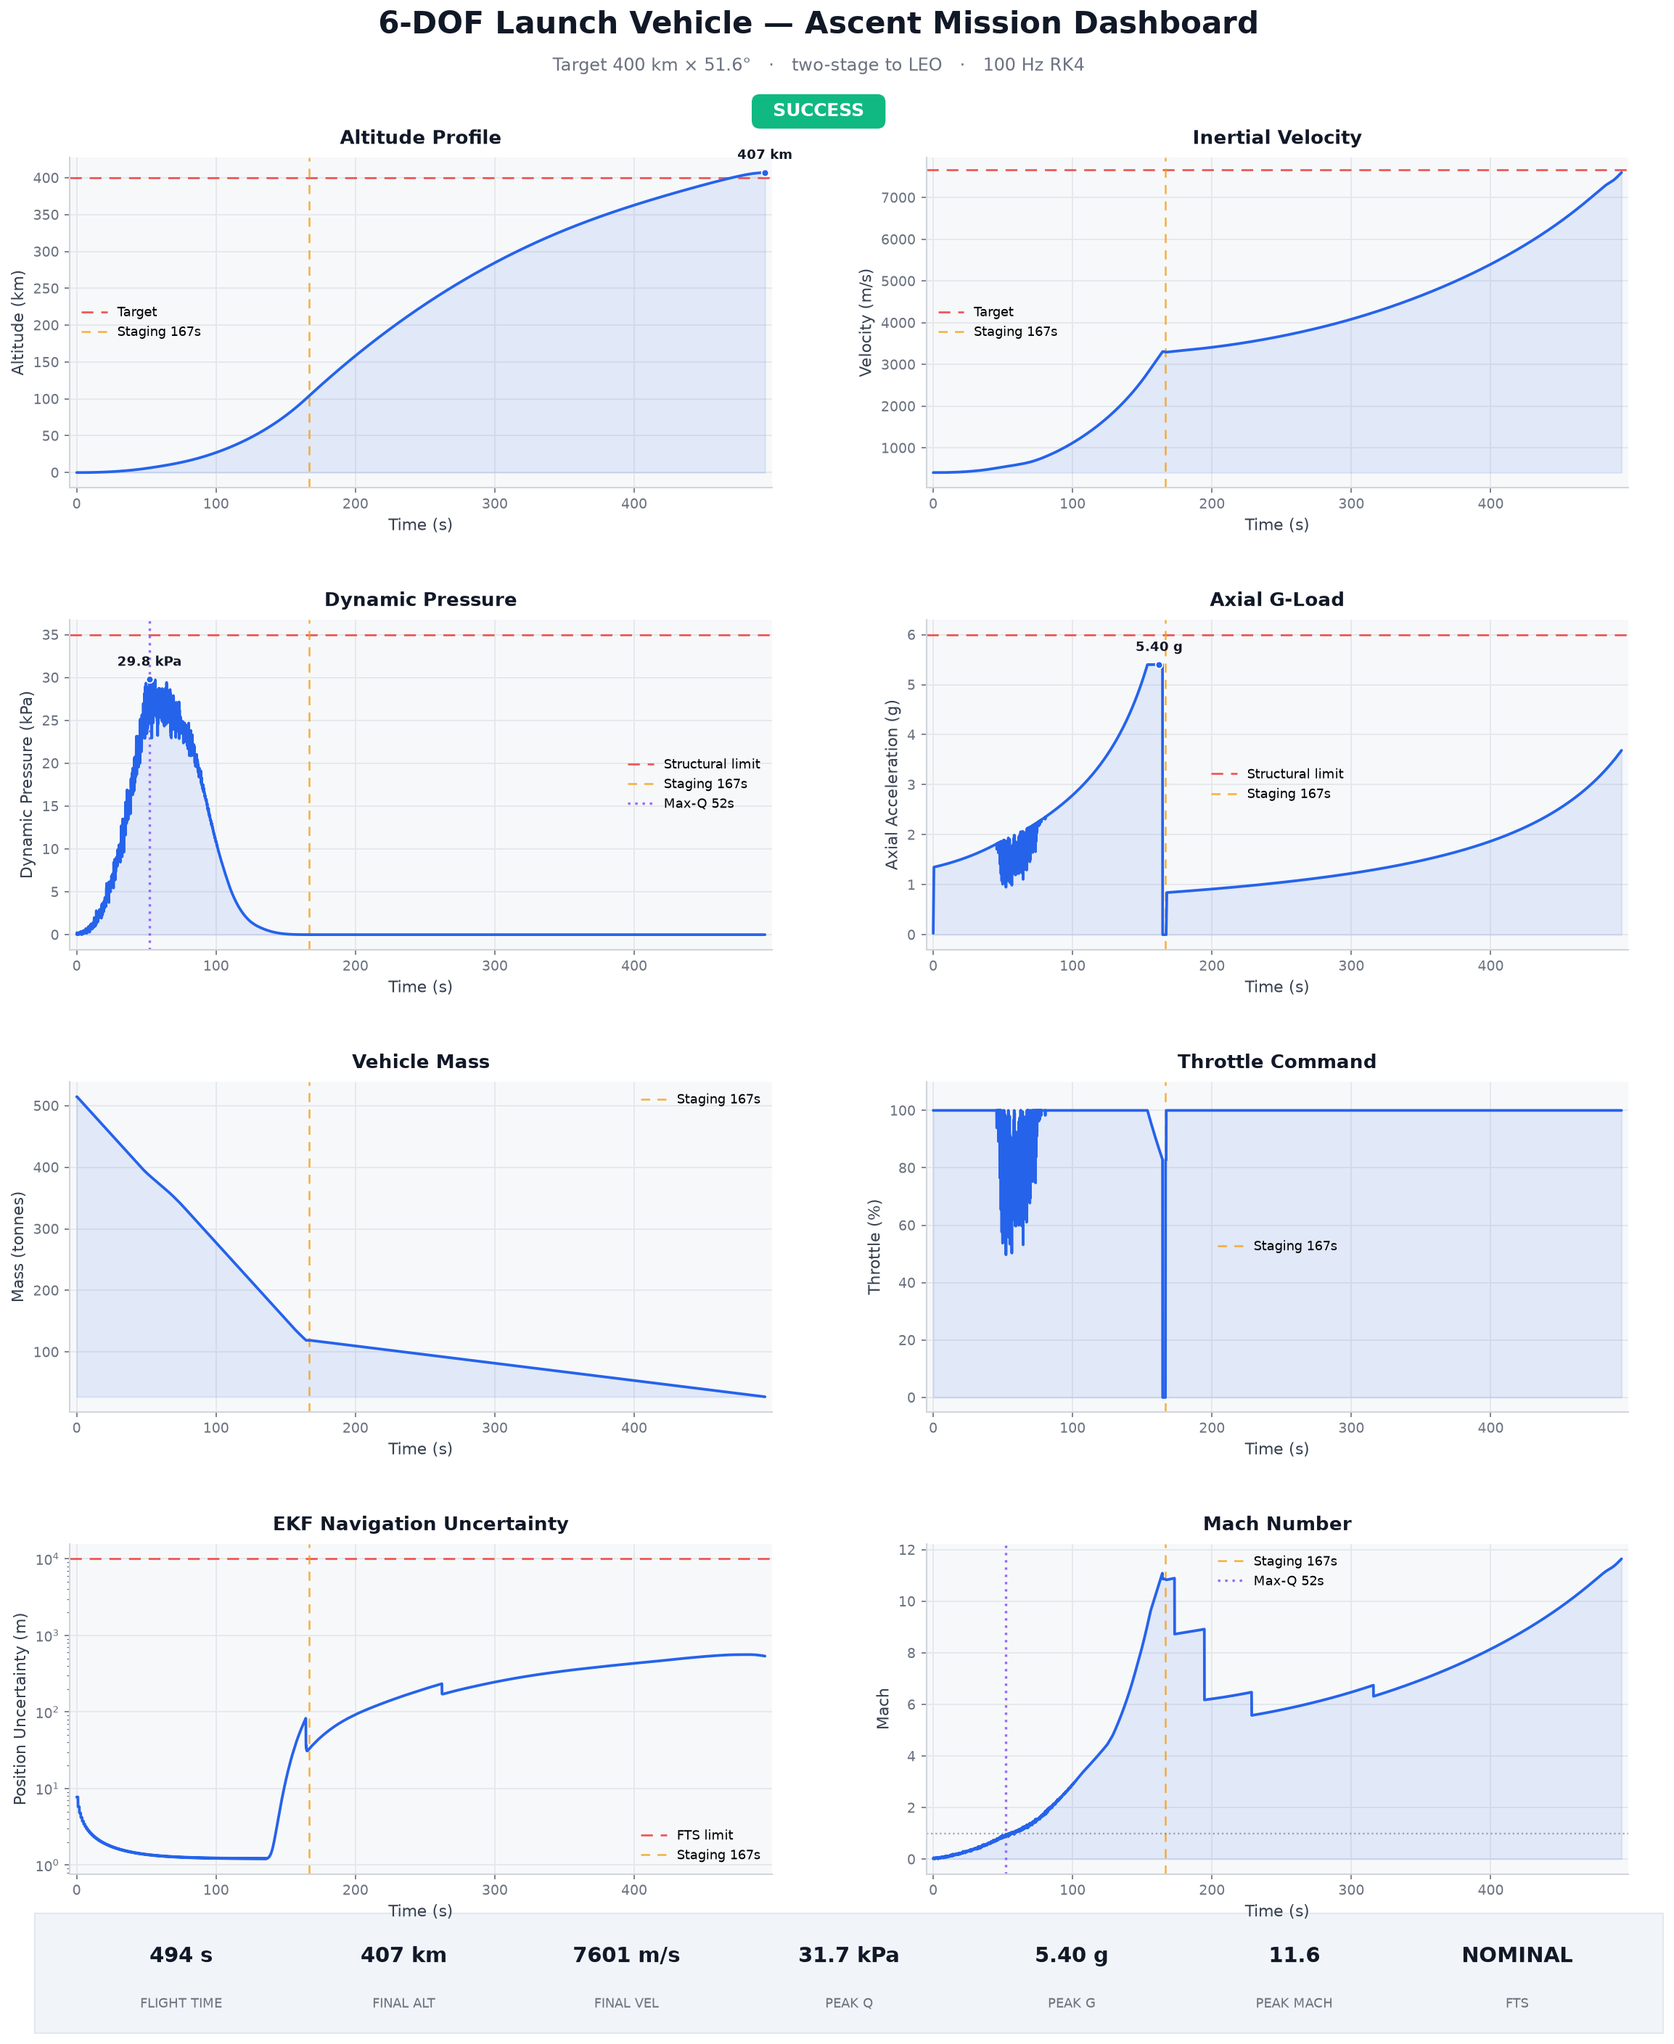
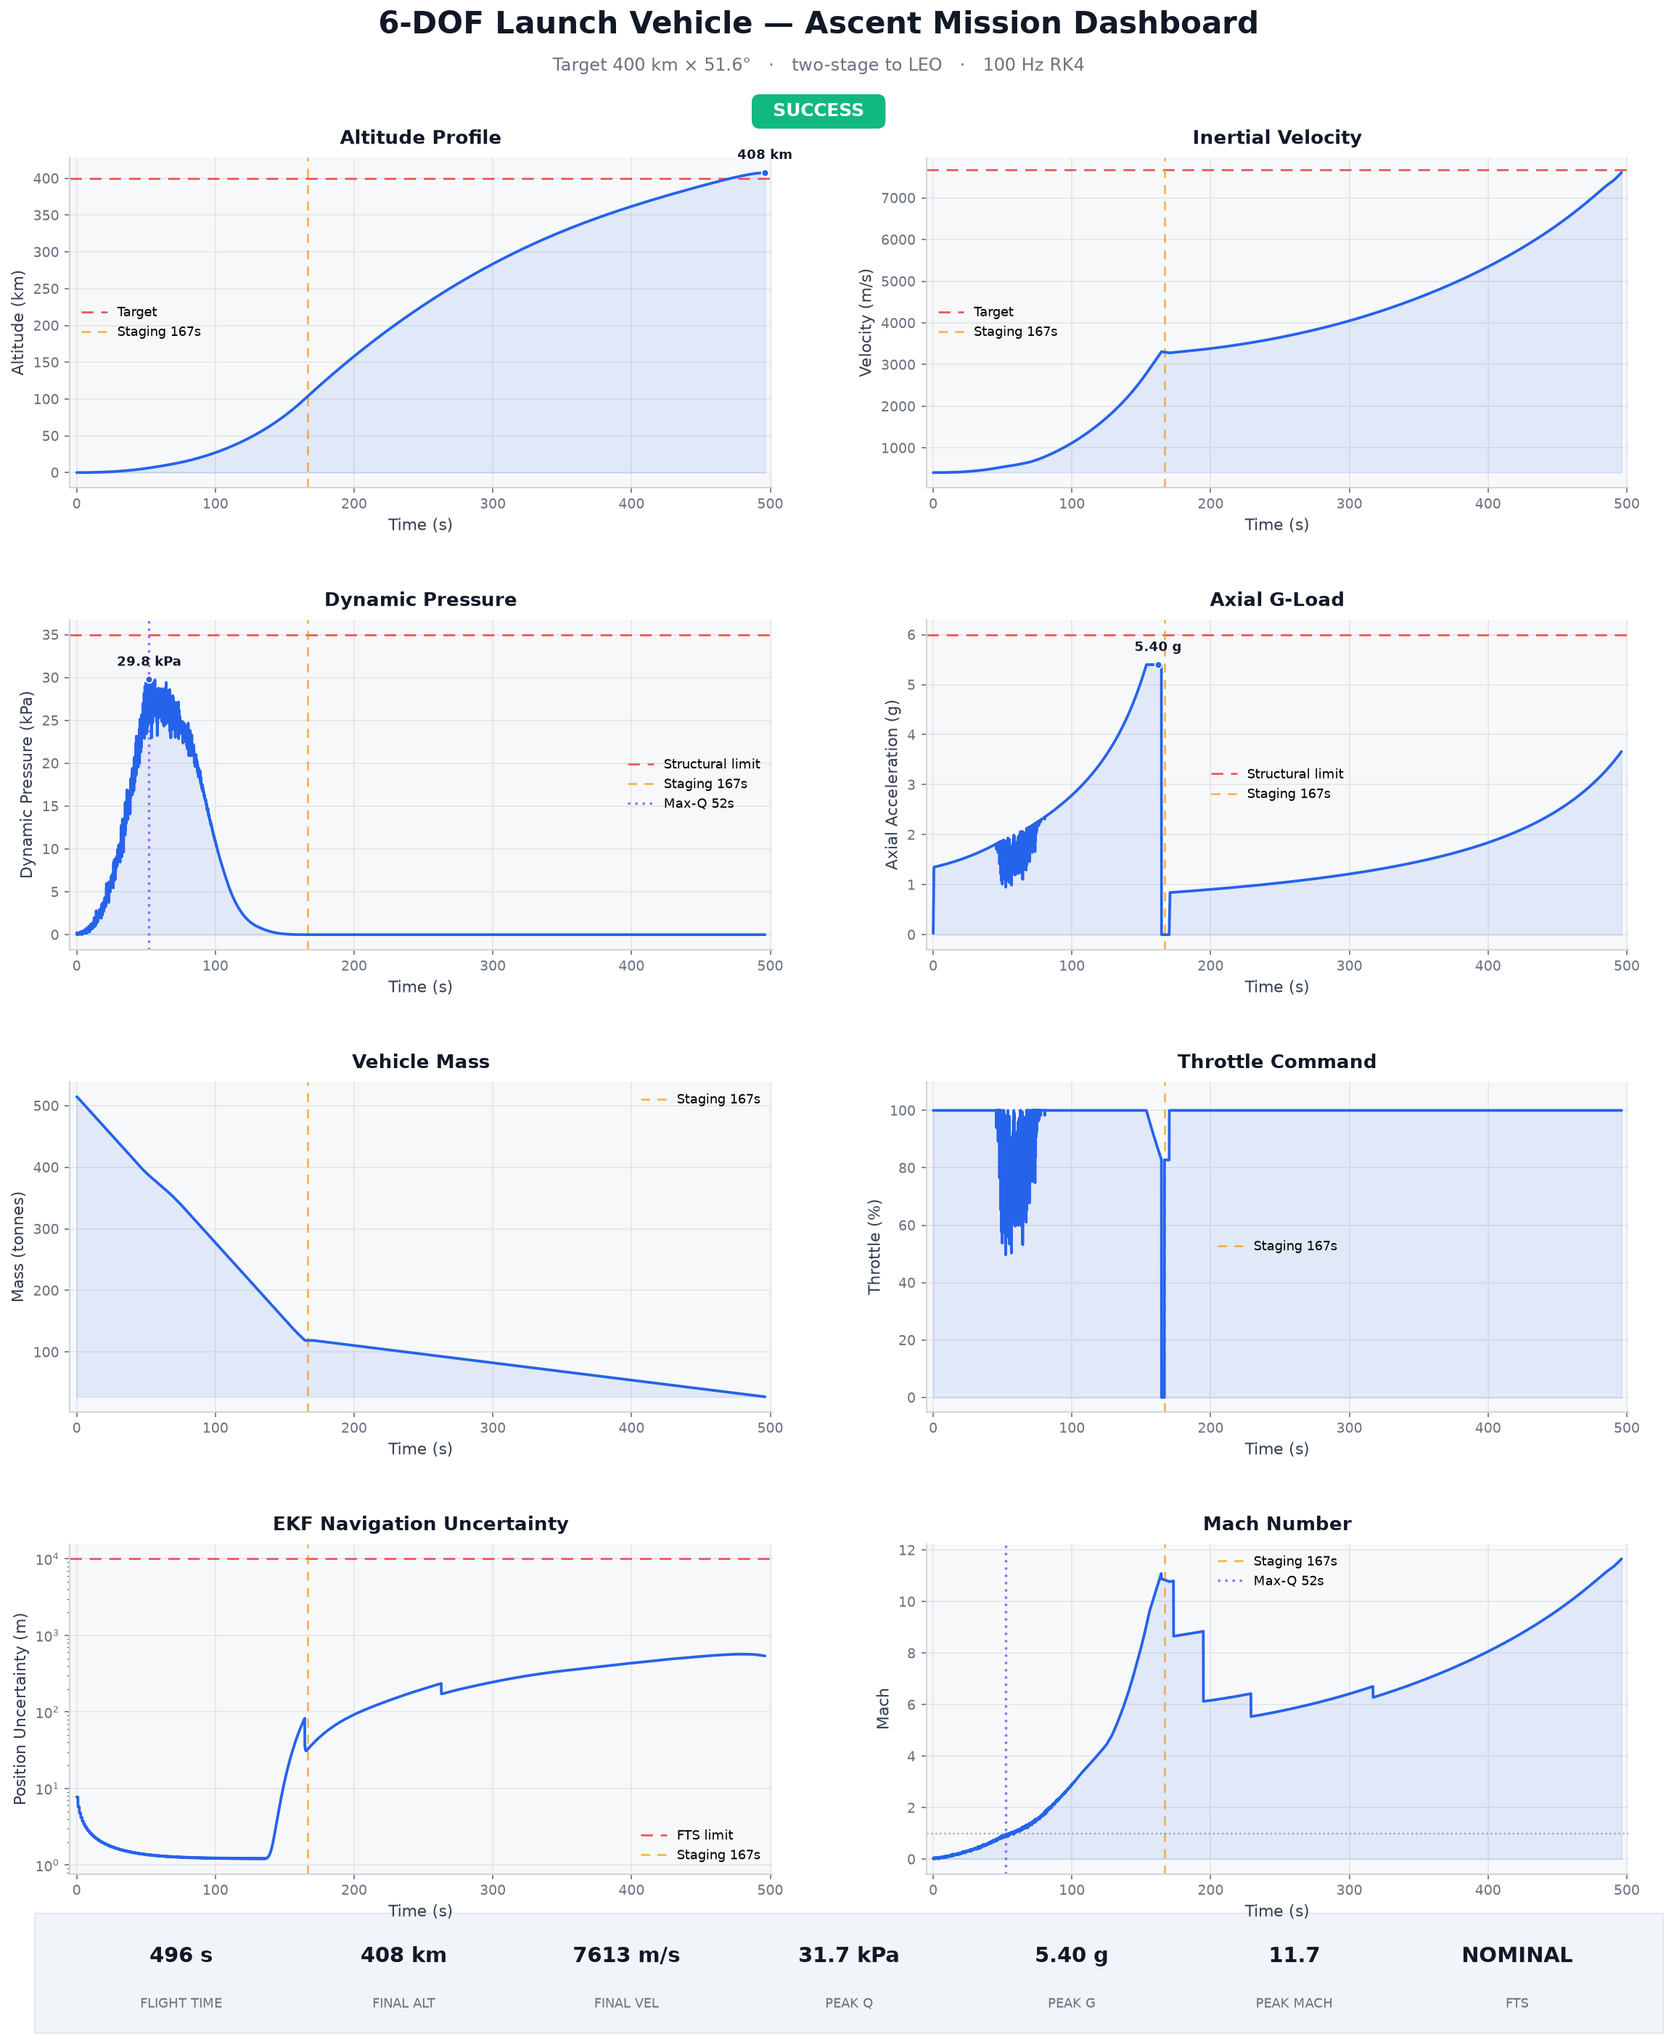
fix(staging): add post-separation ullage-settling coast (ADR 0025) (#71)
A coast-timing review found the staging sequence lit S2 at the *instant* of
separation (sep -> S2 ignition = 0 s). This vehicle stages cold (it coasts
unpowered before parting), and a cold-staged upper stage normally coasts ~2-5 s
after separation so the spent stage clears (no recontact / plume impingement) and
the upper-stage propellant settles at the tank outlet before SES (e.g. Falcon 9
SES ~3 s after sep). The pre-separation timing (MECO -> sep = 2 s, tail-off +
coast) was already reasonable.

Insert a SETTLING phase (POST_SEP_COAST_DURATION = 3 s) between SEPARATION and
S2_IGNITION and defer s2_engine.ignite() to the end of it. New sequence:
TAIL_OFF (1 s) -> COAST (1 s) -> SEPARATION -> SETTLING (3 s) -> S2_IGNITION
(0.5 s). MECO -> sep = 2 s, sep -> S2 ignition = 3 s, MECO -> S2 thrust ~5.5 s.

The sim models neither settling nor recontact (point-mass propellant ledger), so
this is a timeline-fidelity fix; deferring ignite() to the end of SETTLING
preserves the existing S2 start-up ramp, merely inserting the coast ahead of it.

Validation:
- timeline confirmed (MECO 164.6 / sep 166.6 / S2 ignite 169.6 / S2 thrust 170.1 s)
- nominal SUCCESS; the ~3 s coast lofts the staging arc slightly and pushes
  insertion ~2.5 s later (fpa 0.70->1.12 deg, t 493.8->496.3 s); golden
  re-baselined; examples/output regenerated
- robustness holds: 24-seed dispersed campaign 24/24 (no regression)
- new tests/test_fidelity_fixes.py::TestPostSeparationCoast (S2 not lit at
[…]

diff --git a/sim/vehicle/staging.py b/sim/vehicle/staging.py
@@ -3,8 +3,13 @@
 Implements a state-machine that monitors propellant depletion and drives
 the separation sequence:
 
-    NOMINAL → TAIL_OFF (1 s) → COAST (1 s) → SEPARATION → S2_IGNITION (0.5 s ramp)
+    NOMINAL → TAIL_OFF (1 s) → COAST (1 s) → SEPARATION
+            → SETTLING (3 s) → S2_IGNITION (0.5 s ramp)
 
+The pre-separation TAIL_OFF + COAST (~2 s) lets S1 thrust decay before the stages
+part; the post-separation SETTLING coast (~3 s) is the cold-staging gap that lets
+the spent stage clear and the upper-stage propellant settle at the tank outlet
+before S2 lights (ADR 0025) — so S2 is not commanded at the instant of separation.
 A safety interlock prevents separation while effective throttle exceeds 5 %.
 """
 
@@ -19,7 +24,8 @@ from sim.vehicle.vehicle import Vehicle
 # Sequence timing
 # ---------------------------------------------------------------------------
 TAIL_OFF_DURATION: float = 1.0  # Engine tail-off (s)
-COAST_DURATION: float = 1.0  # Unpowered coast (s)
+COAST_DURATION: float = 1.0  # Pre-separation coast (s)
+POST_SEP_COAST_DURATION: float = 3.0  # Post-separation ullage-settling coast (s)
 S2_IGNITION_RAMP: float = 0.5  # S2 engine start-up ramp (s)
 
 # Safety interlock threshold — fraction of rated thrust
@@ -36,8 +42,9 @@ class StagingPhase(Enum):
 
     NOMINAL = auto()  # Burning on current stage
     TAIL_OFF = auto()  # S1 engine shutting down
-    COAST = auto()  # Unpowered gap between stages
+    COAST = auto()  # Pre-separation unpowered coast
     SEPARATION = auto()  # Mass drop (instantaneous)
+    SETTLING = auto()  # Post-separation ullage-settling coast
     S2_IGNITION = auto()  # S2 engine ramping up
     COMPLETE = auto()  # Separation finished — normal ops on next stage
 
@@ -155,12 +162,22 @@ class StagingSequencer:
                 self._s1_engine.shutdown()
                 return "STAGING: ABORT — thrust above interlock; re-entering tail-off"
 
-            # Drop the spent stage
+            # Drop the spent stage, then coast (cold staging): S2 is NOT lit at
+            # the instant of separation — the vehicle settles propellant and lets
+            # the spent stage clear during SETTLING before ignition.
             self._vehicle.advance_stage()
-            self._phase = StagingPhase.S2_IGNITION
+            self._phase = StagingPhase.SETTLING
             self._phase_elapsed = 0.0
-            self._s2_engine.ignite()
-            event = "STAGING: separation — S2 ignition commanded"
+            event = "STAGING: separation — coasting for ullage settling"
+
+        # ------------------------------------------------------------------
+        elif self._phase is StagingPhase.SETTLING:
+            self._phase_elapsed += dt
+            if self._phase_elapsed >= POST_SEP_COAST_DURATION:
+                self._phase = StagingPhase.S2_IGNITION
+                self._phase_elapsed = 0.0
+                self._s2_engine.ignite()
+                event = "STAGING: settling coast complete — S2 ignition commanded"
 
         # ------------------------------------------------------------------
         elif self._phase is StagingPhase.S2_IGNITION:

diff --git a/tests/test_fidelity_fixes.py b/tests/test_fidelity_fixes.py
@@ -244,6 +244,49 @@ class TestStagingAbortRecovery:
 
 
 # --------------------------------------------------------------------------- #
+# ADR 0025 — post-separation ullage-settling coast (cold staging)
+# --------------------------------------------------------------------------- #
+class TestPostSeparationCoast:
+    """S2 is not lit at the instant of separation: the vehicle coasts
+    ~POST_SEP_COAST_DURATION (ullage settling / stage clearance) first."""
+
+    @staticmethod
+    def _seq_at_separation():
+        from sim.vehicle.propulsion import EngineModel
+        from sim.vehicle.staging import StagingPhase, StagingSequencer
+        from sim.vehicle.vehicle import Vehicle
+
+        veh = Vehicle()
+        s1 = EngineModel(veh.current_stage)  # never ignited → thrust below interlock
+        s2 = EngineModel(veh.stages[1])
+        seq = StagingSequencer(veh, s1, s2)
+        seq._phase = StagingPhase.SEPARATION
+        return seq, s2
+
+    def test_s2_not_ignited_at_separation(self):
+        from sim.vehicle.staging import StagingPhase
+
+        seq, s2 = self._seq_at_separation()
+        seq.update(0.01)  # process SEPARATION
+        assert seq.phase is StagingPhase.SETTLING
+        assert not s2.is_ignited  # cold staging — ignition deferred
+
+    def test_s2_ignites_only_after_settling_coast(self):
+        import sim.vehicle.staging as st
+        from sim.vehicle.staging import StagingPhase
+
+        seq, s2 = self._seq_at_separation()
+        seq.update(0.01)  # -> SETTLING
+        for _ in range(int(0.5 * st.POST_SEP_COAST_DURATION / 0.01)):
+            seq.update(0.01)
+        assert not s2.is_ignited  # still settling, halfway through the coast
+        for _ in range(int(st.POST_SEP_COAST_DURATION / 0.01) + 2):
+            seq.update(0.01)
+        assert s2.is_ignited
+        assert seq.phase in (StagingPhase.S2_IGNITION, StagingPhase.COMPLETE)
+
+
+# --------------------------------------------------------------------------- #
 # AD-13 — cop_com_margin sign convention
 # --------------------------------------------------------------------------- #
 class TestCopComMargin:

diff --git a/tests/test_golden_trajectory.py b/tests/test_golden_trajectory.py
@@ -57,20 +57,23 @@ class TestNominalGolden:
     ADR 0024 (AD-17 inclination targeting): azimuth correction + terminal yaw
     out-of-plane steering reach ``insertion_inclination_deg`` ~45->51.04 deg
     (target 51.6), which shifts the terminal trajectory (fpa 0.32->0.70).
+    Re-baselined again 2026-06-22 for ADR 0025 (post-separation ullage-settling
+    coast): the added ~3 s cold-staging coast lofts the staging arc slightly and
+    pushes insertion ~2.5 s later (fpa 0.70->1.12, t 493.8->496.3).
     """
 
     # Golden summary of the deterministic nominal run (seed 0).
     _GOLD = {
         "outcome": "SUCCESS",
-        "insertion_altitude_m": 407_178.5,
-        "insertion_velocity_ms": 7_601.4,
-        "insertion_fpa_deg": 0.700,
-        "insertion_inclination_deg": 51.04,
+        "insertion_altitude_m": 407_967.1,
+        "insertion_velocity_ms": 7_612.7,
+        "insertion_fpa_deg": 1.120,
+        "insertion_inclination_deg": 51.05,
         "peak_q_pa": 31_725.4,
         "peak_axial_g": 5.40,
-        "peak_ekf_uncertainty_m": 561.4,
-        "boundary_clamp_count": 297,
-        "total_time_s": 493.8,
+        "peak_ekf_uncertainty_m": 568.4,
+        "boundary_clamp_count": 309,
+        "total_time_s": 496.3,
     }
 
     def test_nominal_summary_matches_golden(self):

diff --git a/docs/adr/0025-post-separation-coast.md b/docs/adr/0025-post-separation-coast.md
@@ -1,0 +1,70 @@
+# 0025. Post-separation ullage-settling coast (cold staging)
+
+- Status: accepted
+- Date: 2026-06-22
+- Deciders: GNC / vehicle eng
+- Related: ADR 0021 (staging propellant margin), AD-09 (separation interlock)
+
+## Context and Problem Statement
+
+A review of the staging coast timing found the sequence was
+`TAIL_OFF (1 s) → COAST (1 s) → SEPARATION → S2_IGNITION`, i.e.:
+
+- **MECO → separation = 2.0 s** (tail-off + coast) — reasonable; real two-stage
+  vehicles take ~2–4 s to let S1 thrust decay before parting (Falcon 9 ≈ 3 s), and
+  the 5 %-thrust interlock correctly gates separation.
+- **separation → S2 ignition = 0.0 s** — S2 was commanded at the *instant* of
+  separation. This vehicle stages **cold** (it coasts unpowered before parting), and
+  a cold-staged upper stage normally coasts **~2–5 s after** separation before SES
+  so the spent stage clears (no recontact / plume impingement) and the
+  upper-stage propellant settles at the tank outlet before the turbopump spins up
+  (Falcon 9 SES ≈ 3 s after sep). Lighting at the separation instant skips both,
+  and putting the only coast *before* the mass drop is backwards versus practice.
+
+The sim models neither ullage settling nor recontact (point-mass propellant
+ledger), so this was a **timeline-fidelity** gap rather than a functional bug — its
+only modelled effect is a few seconds of gravity loss — but the 0 s post-sep coast
+was unrealistic.
+
+## Decision
+
+Insert a **`SETTLING` phase** (`POST_SEP_COAST_DURATION = 3 s`) between
+`SEPARATION` and `S2_IGNITION`, and defer `s2_engine.ignite()` to the *end* of
+that coast. The pre-separation tail-off + coast (~2 s) is unchanged. The sequence
+is now:
+
+```
+TAIL_OFF (1 s) → COAST (1 s) → SEPARATION → SETTLING (3 s) → S2_IGNITION (0.5 s)
+```
+
+So MECO → separation = 2 s, separation → S2 ignition = 3 s, MECO → S2 thrust ≈
+5.5 s — in line with real cold-staging practice.
+
+## Validation
+
+- **Timeline** — nominal run: MECO 164.6 s, separation 166.6 s (+2.0 s), S2
+  ignition 169.6 s (+3.0 s), S2 thrust 170.1 s. A new
+  `tests/test_fidelity_fixes.py::TestPostSeparationCoast` pins that S2 is not
+  ignited at separation and lights only after the settling coast.
+- **Nominal** — still SUCCESS; the ~3 s coast lofts the staging arc slightly and
+  pushes insertion ~2.5 s later (fpa 0.70°→1.12°, t 493.8→496.3 s). Golden
+  re-baselined; `examples/output/` regenerated.
+- **Robustness** — 24-seed dispersed campaign holds **24/24** (no regression).
+- Full `pytest`, `ruff`, `pyright` pass.
+
+## Consequences
+
+- **Positive:** the staging timeline matches real cold-staging — a settling/
+  clearance coast after separation, not an instantaneous relight — and the coast
+  phases are correctly ordered (pre-sep tail-off, post-sep settling).
+- **Cost / limitation:** the underlying settling and recontact physics are still
+  not modelled; `SETTLING` is a timeline coast (the vehicle flies unpowered),
+  not a propellant-settling simulation. The 3 s value is a representative
+  cold-stage figure, not tuned to a specific vehicle.
+
+## Notes / Evidence
+
+Found via a direct coast-timing review. The change is purely in the staging state
+machine (`sim/vehicle/staging.py`); S2 thrust still applies only once the sequence
+completes, so deferring `ignite()` to the end of `SETTLING` preserves the existing
+S2 start-up ramp behaviour, merely inserting the coast ahead of it.

diff --git a/docs/assumptions.md b/docs/assumptions.md
@@ -56,7 +56,7 @@
   - **Propellant slosh** (`sim/dynamics/slosh.py`): Single-tank pendulum analogy. 30% of remaining propellant participates in slosh (`SLOSH_MASS_FRACTION`). Frequency interpolates with fill level. Damping ratio 0.03 (baffled tank). Semi-implicit Euler integration.
   - **TVC actuator** (`sim/vehicle/actuator.py`): second-order servo (25 Hz bandwidth, ζ=0.7) integrated on adaptive sub-steps so the response stays numerically stable at the 100 Hz outer rate (a single semi-implicit Euler step was divergent and limit-cycled; audit AD-02).
 - **No structural flexibility coupling** between flex modes and slosh.
-- **Instantaneous stage separation** (mass drop). Coast duration is 1.0 s between tail-off and separation.
+- **Instantaneous stage separation** (mass drop), cold-staged (ADR 0025): ~2 s before separation (1 s tail-off + 1 s coast) lets S1 thrust decay, then a **3 s post-separation ullage-settling coast** (`POST_SEP_COAST_DURATION`) lets the spent stage clear and the upper-stage propellant settle before S2 ignition — S2 is not lit at the instant of separation. A 5%-thrust interlock gates separation. (Settling/recontact physics are not modelled; the coast is a timeline gap, so its only modelled effect is gravity loss.)
 - **RK4 force hold** (`sim/main.py`): the translational forces, torques and gravity are evaluated once per 100 Hz step and held constant across the four RK4 sub-stages (only the kinematic states vary per sub-stage). Net dynamics accuracy is therefore effectively first-order within a step; the 100 Hz rate keeps the per-step error small for this trajectory but the "RK4" label refers to the kinematic integration, not the force model.
 
 ## Navigation

diff --git a/docs/adr/README.md b/docs/adr/README.md
@@ -41,3 +41,4 @@ changes from the 2026-06-21 cross-repo lessons pass (`audit/05`).
 | [0022](0022-realistic-imu-dispersion.md) | Realistic IMU bias-instability dispersion (N-01) | accepted |
 | [0023](0023-ground-station-range-tracking.md) | Ground-station range tracking for the GPS-denied coast (N-01) | accepted |
 | [0024](0024-inclination-targeting.md) | Inclination targeting — azimuth correction + yaw plane-steering (AD-17) | accepted |
+| [0025](0025-post-separation-coast.md) | Post-separation ullage-settling coast (cold staging) | accepted |
